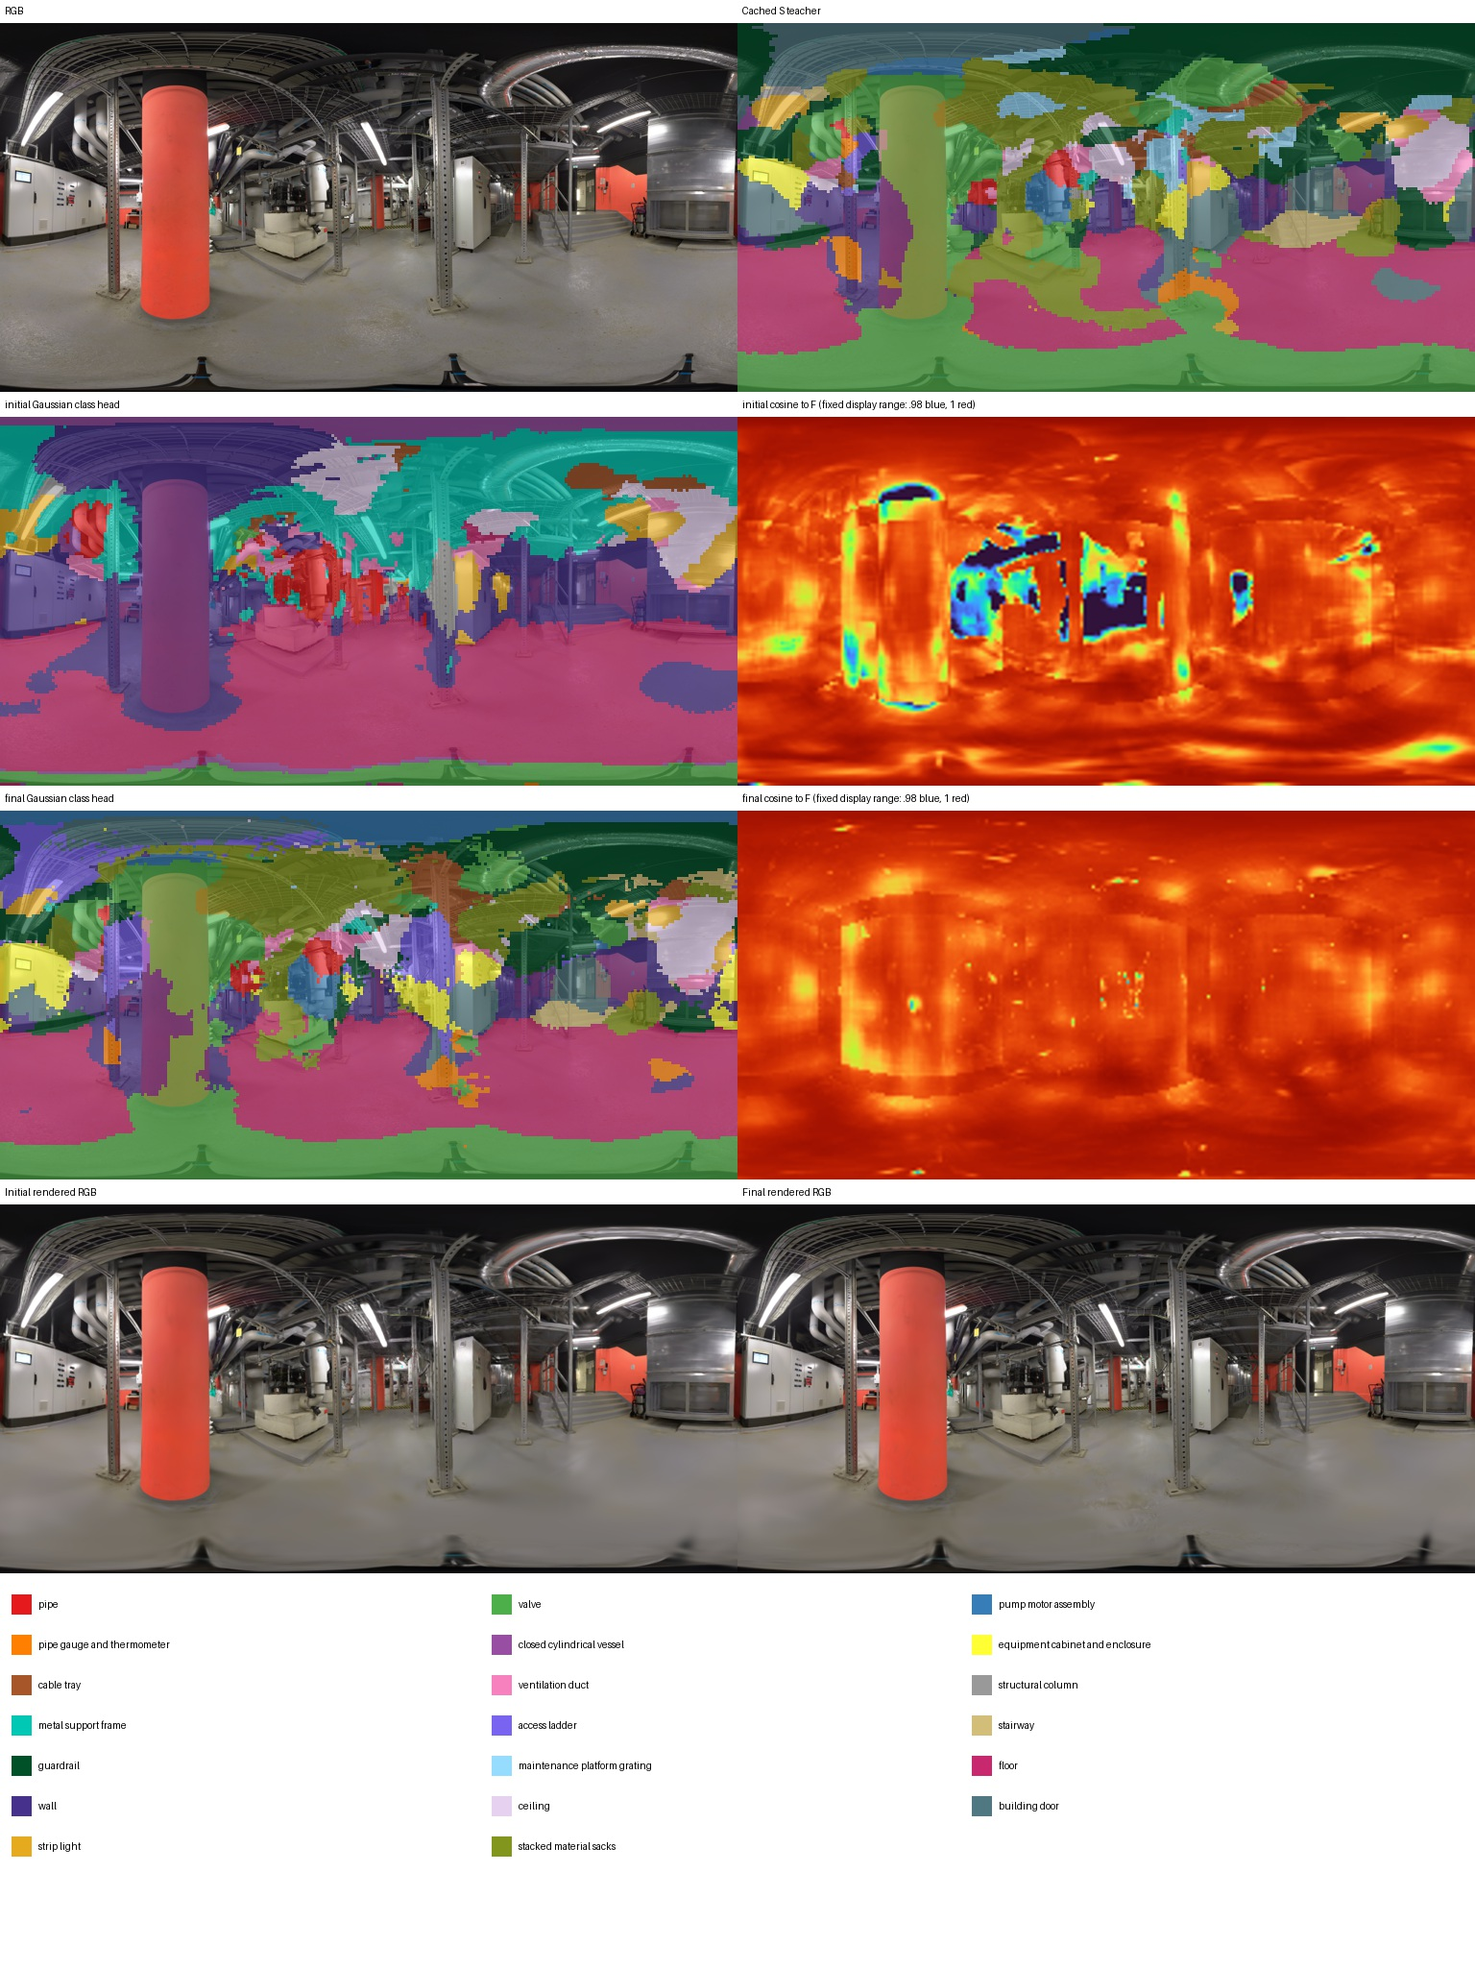
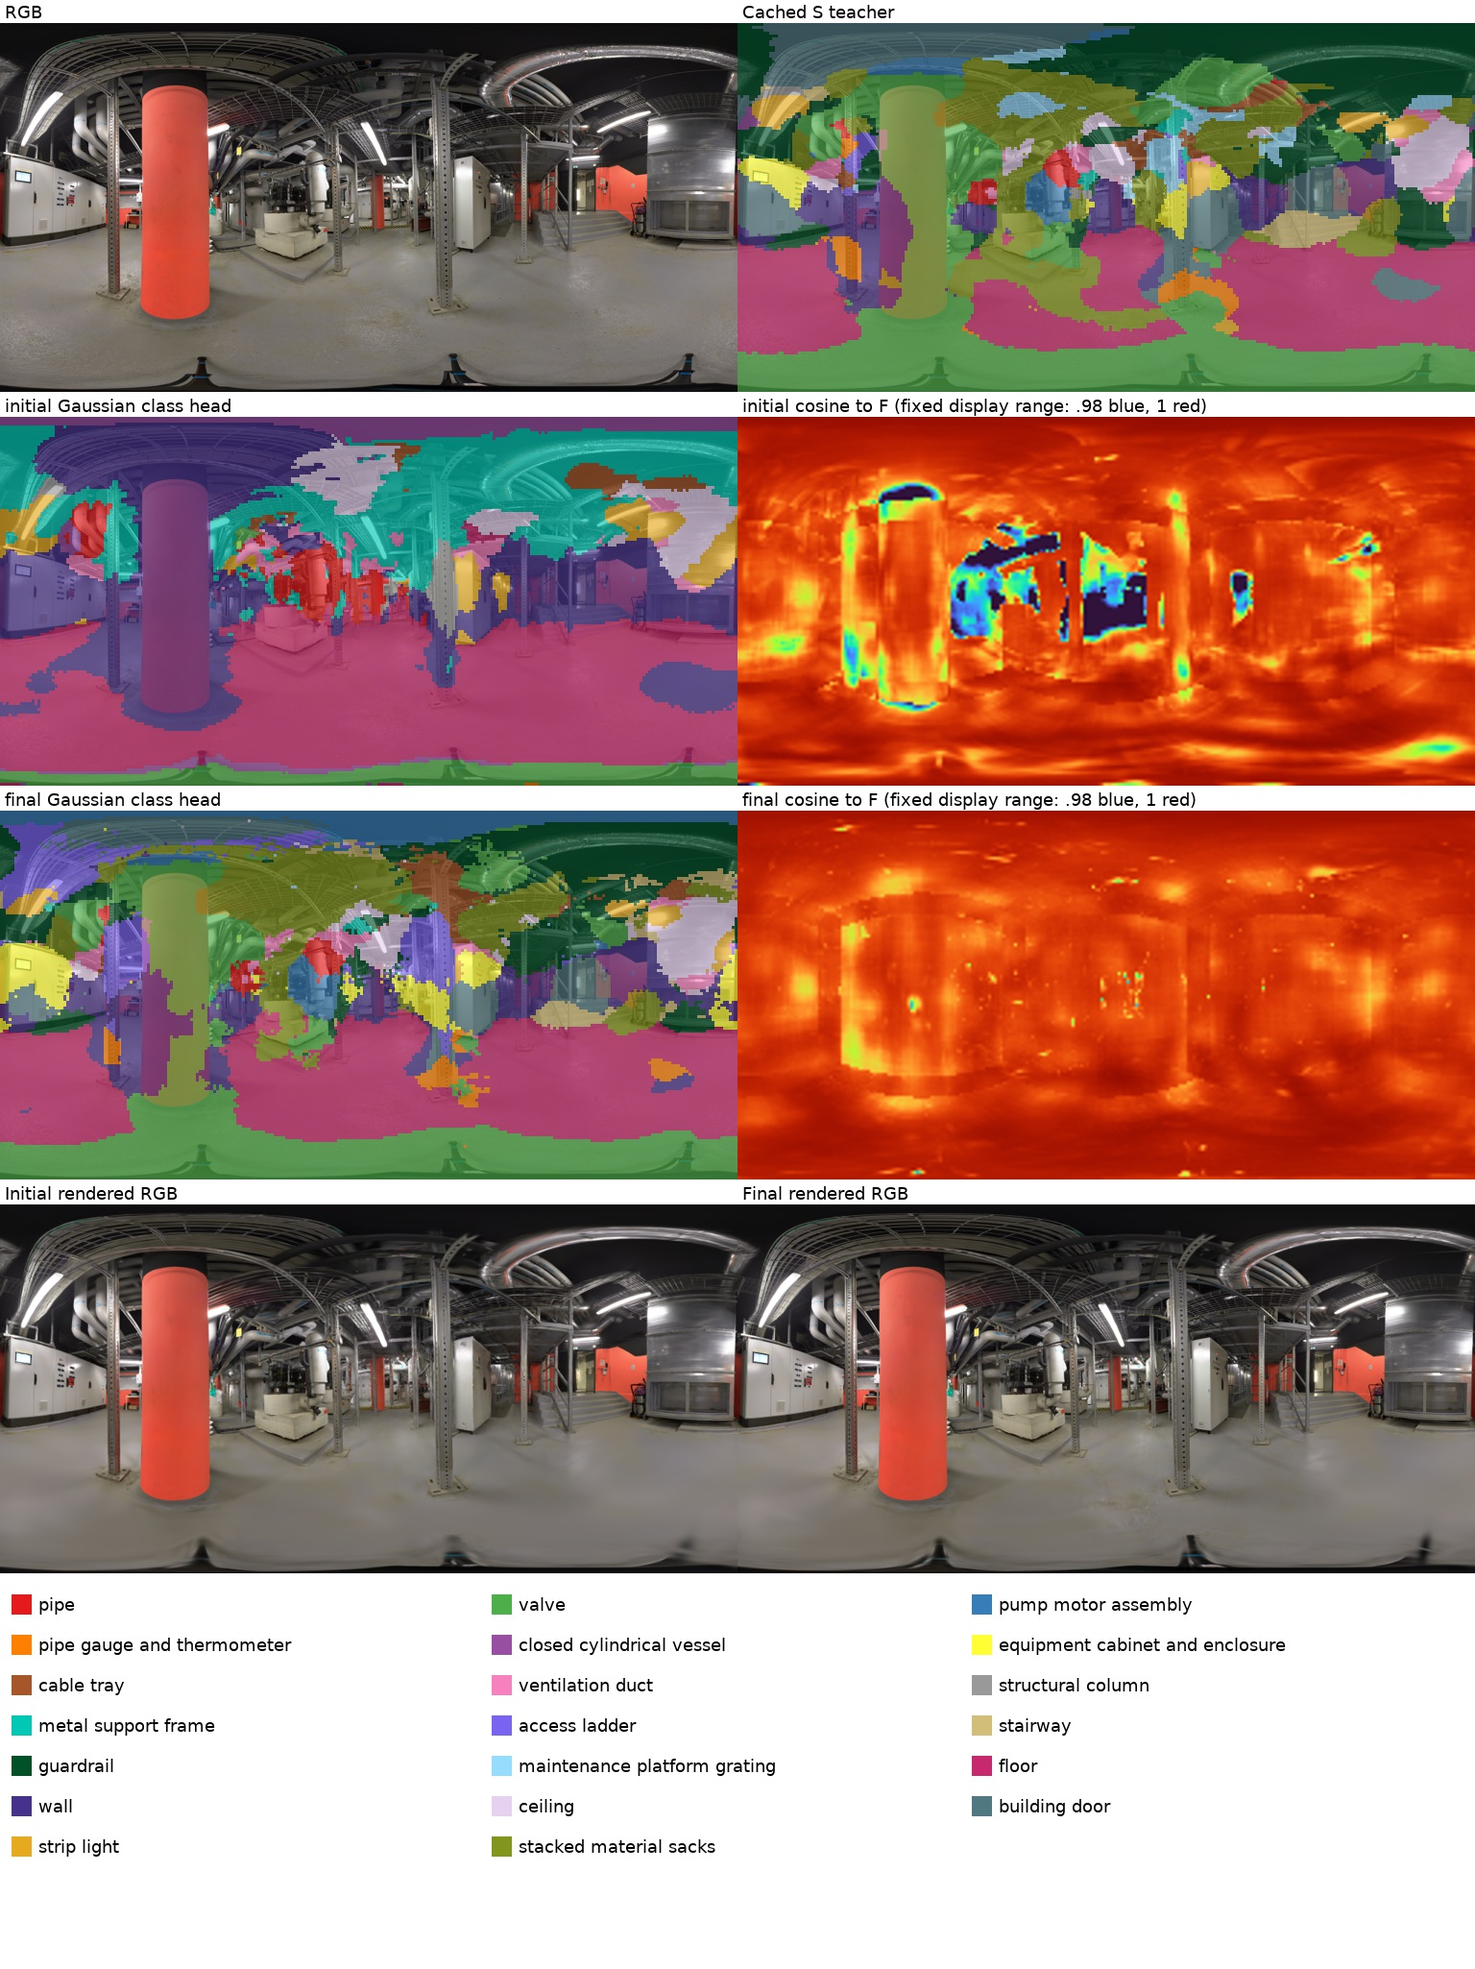
Record completed M2 SGI experiment and visual comparisons

diff --git a/tools/compare_m2_history.py b/tools/compare_m2_history.py
@@ -1,0 +1,86 @@
+"""Compare saved historical/current SGI renders with separate class legends.
+
+Training budgets and vocabularies differ. These figures are historical context,
+not a controlled estimate of the effect of changing M2.
+"""
+import argparse
+import sys
+from pathlib import Path
+
+sys.path.insert(0, str(Path(__file__).resolve().parents[1]))
+import numpy as np
+from PIL import Image, ImageDraw, ImageFont
+from spcgs.common import ROOT, read, ref, Stage
+from spcgs.visuals import PALETTE
+
+
+def compare(old_reference, new_stage, output):
+    old_reference, new_stage, output = map(Path, (old_reference, new_stage, output))
+    old = read(old_reference / 'render_job/request.json')
+    new = read(new_stage / 'validation/final_job/request.json')
+    old_cfg = read(old_reference / 'inputs.json')['source_config']
+    new_cfg = read(new_stage / 'config.json')
+    assert read(old_reference / 'outputs.json')['status'] == 'completed'
+    assert read(new_stage / 'outputs.json')['status'] == 'completed'
+    old_views = {v['name']: v for v in old['views']}
+    w, h = 768, 384
+    try:
+        font = ImageFont.truetype('/usr/share/fonts/truetype/dejavu/DejaVuSans.ttf', 18)
+    except OSError:
+        font = ImageFont.load_default()
+    note = 'Historical comparison: different training budgets and vocabularies; not an isolated M2 effect.'
+    with Stage(output, {'old_render_request': ref(old_reference / 'render_job/request.json'),
+                        'new_render_request': ref(new_stage / 'validation/final_job/request.json')},
+               {'old_training': old_cfg, 'new_training': new_cfg}) as stage:
+        figures = []
+        for view in new['views']:
+            name = view['name']
+            if name not in old_views:
+                continue
+            assert view['image'] == old_views[name]['image']
+            rgb = Image.open(view['image']).convert('RGB').resize((w, h))
+
+            def overlay(labels):
+                colors = Image.fromarray(PALETTE[labels]).resize((w, h), Image.Resampling.NEAREST)
+                return Image.blend(rgb, colors, .65)
+
+            def labels(request):
+                logits = np.fromfile(Path(request['output']) / (name + '_logits.f16'), dtype='f2')
+                return logits.reshape(len(request['classes']), request['semantic_height'], request['semantic_width']).argmax(0)
+
+            s = np.fromfile(view['relevancy'], dtype='f2').reshape(len(new['classes']), view['relevancy_height'], view['relevancy_width'])
+            panels = [('Real training RGB', rgb),
+                      (f"Old SGI RGB: {old_cfg['sgi_iterations']} steps, trained at {old_cfg['width']}x{old_cfg['height']}", Image.open(Path(old['output']) / (name + '_rgb.png')).resize((w, h))),
+                      (f"New SGI RGB: {new_cfg['sgi_iterations']} steps, trained at {new_cfg['width']}x{new_cfg['height']}", Image.open(Path(new['output']) / (name + '_rgb.png')).resize((w, h))),
+                      (f"New cached S teacher ({len(new['classes'])} classes)", overlay(s.argmax(0))),
+                      (f"Old Gaussian class head ({len(old['classes'])} classes)", overlay(labels(old))),
+                      (f"New Gaussian class head ({len(new['classes'])} classes)", overlay(labels(new)))]
+            canvas = Image.new('RGB', (3 * w, 1130), 'white')
+            draw = ImageDraw.Draw(canvas)
+            draw.text((10, 8), note, fill='black', font=font)
+            for i, (title, panel) in enumerate(panels):
+                x, y = (i % 3) * w, 40 + (i // 3) * (h + 30)
+                draw.text((x + 8, y + 4), title, fill='black', font=font)
+                canvas.paste(panel, (x, y + 28))
+            for classes, start_x, columns, column_w, title in [
+                (old['classes'], 10, 2, 370, 'OLD class legend'),
+                (new['classes'], w + 10, 3, 505, 'NEW / TEACHER class legend')]:
+                draw.text((start_x, 875), title, fill='black', font=font)
+                for i, category in enumerate(classes):
+                    x, y = start_x + (i % columns) * column_w, 905 + (i // columns) * 30
+                    draw.rectangle((x, y, x + 18, y + 18), fill=tuple(PALETTE[i]))
+                    draw.text((x + 26, y), category, fill='black', font=font)
+            path = output / (name + '_history.jpg')
+            canvas.save(path, quality=94)
+            figures.append(str(path))
+        assert figures, 'No common saved views'
+        stage.done({'figures': figures, 'note': note})
+
+
+if __name__ == '__main__':
+    parser = argparse.ArgumentParser()
+    parser.add_argument('old_reference')
+    parser.add_argument('new_stage')
+    parser.add_argument('output')
+    args = parser.parse_args()
+    compare(ROOT / args.old_reference, ROOT / args.new_stage, ROOT / args.output)

diff --git a/tools/compare_m2_student.py b/tools/compare_m2_student.py
@@ -3,7 +3,7 @@ import argparse,sys
 from pathlib import Path
 sys.path.insert(0,str(Path(__file__).resolve().parents[1]))
 import numpy as np
-from PIL import Image,ImageDraw
+from PIL import Image,ImageDraw,ImageFont
 from spcgs.common import ROOT,read,write,ref
 from spcgs.clip_dense import unit,save_responses,spatial_relevancy
 from spcgs.visuals import PALETTE
@@ -17,6 +17,8 @@ def compare(stage,cache,cfg,views):
     matplotlib.use('Agg')
     import matplotlib.pyplot as plt
     stage=Path(stage);out=stage/'validation';out.mkdir(exist_ok=True);h,w=cfg['semantic_height'],cfg['semantic_width'];k=len(cache['classes']);rows=[]
+    try:font=ImageFont.truetype('/usr/share/fonts/truetype/dejavu/DejaVuSans.ttf',18)
+    except OSError:font=ImageFont.load_default()
     for v in views:
         name=v['name'];fh,fw=v['feature_height'],v['feature_width']
         def resized(x):return np.stack([cv2.resize(z,(w,h),interpolation=cv2.INTER_LINEAR) for z in x])
@@ -43,9 +45,9 @@ def compare(stage,cache,cfg,views):
             save_responses(v['image'],spatial_relevancy(probs),[c+' (spatial minmax)' for c in cache['classes']],folder/(name+'_relative_responses.jpg'))
         panels.extend([('Initial rendered RGB',Image.open(out/'initial'/(name+'_rgb.png')).resize(rgb.size)),('Final rendered RGB',Image.open(out/'final'/(name+'_rgb.png')).resize(rgb.size))])
         for i,(title,im) in enumerate(panels):
-            x=i%2*768;y=i//2*410;draw.text((x+5,y+5),title,fill='black');canvas.paste(im,(x,y+24))
+            x=i%2*768;y=i//2*410;draw.text((x+5,y+2),title,fill='black',font=font);canvas.paste(im,(x,y+24))
         for i,c in enumerate(cache['classes']):
-            x=i%3*500+12;y=1660+i//3*42;draw.rectangle((x,y,x+20,y+20),fill=tuple(PALETTE[i]));draw.text((x+28,y+4),c,fill='black')
+            x=i%3*500+12;y=1660+i//3*42;draw.rectangle((x,y,x+20,y+20),fill=tuple(PALETTE[i]));draw.text((x+28,y),c,fill='black',font=font)
         canvas.save(out/(name+'_comparison.jpg'),quality=94);rows.append(row)
     losses=[__import__('json').loads(x) for x in (stage/'losses.jsonl').read_text().splitlines()]
     # Keep the original supervision panels and expose existing regularizers,

diff --git a/spcgs/pipeline.py b/spcgs/pipeline.py
@@ -42,7 +42,7 @@ def evaluate(folder,views,cfg,model=None):
       'test_psnr':float(np.mean([r['psnr'] for r in testing])) if testing else None,'test_ssim':float(np.mean([r['ssim'] for r in testing])) if testing else None,
       'train_psnr':float(np.mean([r['psnr'] for r in training])) if training else None,'aggregation':'Arithmetic mean over held-out test views only; train reference reported separately',
       'lpips':None,'lpips_reason':'Not computed by the lightweight evaluation entry; PSNR and SSIM use the saved float RGB.',
-      'miou':None,'macc':None,'semantic_gt_reason':'No independent industrial class ground truth supplied; CLIP pseudolabels are not ground truth.',
+      'miou':None,'macc':None,'semantic_gt_reason':'Independent semantic evaluation aligned to the current vocabulary is not configured; CLIP pseudolabels are not ground truth.',
       'resolution':[cfg['width'],cfg['height']],'model':model}
     write(folder/'metrics.json',metrics);return metrics
 

diff --git a/docs/M2_RESULTS.md b/docs/M2_RESULTS.md
@@ -1,6 +1,6 @@
 # M2 工业语义实验结果
 
-当前结论：新数据流能够提取密集 CLIP 特征并训练高斯，但**不能据此宣称工业语义整体改善**。教师的部分空间响应更细，地面区域有所改善；白色管道、灯具、容器和立柱等仍明显混淆。学生能够学习教师，也会继承错误。
+当前结论：M2 实现、完整监督缓存、短训和 10,000 步 SGI 已完成，但**尚未达到工业语义整体改善的目标**。教师的部分空间响应更细，地面区域有所改善；白色管道、灯具、容器和立柱等仍明显混淆。学生能够学习部分教师响应，也会继承错误；完整 SGI 对教师的拟合仍不充分。
 
 ## 已完成的内容
 
@@ -8,7 +8,7 @@
 - 得到 20 类、97 条英文描述，见 [类别报告](IRIS_CLASS_ANALYSIS.md) 和 [最终词表](../configs/industrial_classes.json)。不使用外部 VLM，不将官方 mask 用作监督。
 - 采用 3D-OVS 三尺度、重叠抖动矩形、原始 CLIP 向量空间累积/覆盖归一化，每张默认 16,812 个 patch；[实现依据及差异](M2_REFERENCE.md) 明确列出等权尺度融合和软目标 CE 的近似。
 - C++ 显式读取缓存 S；保留 32 维高斯、32→512 映射、原渲染/反传及文本查询。
-- 4 个真实训练视角的旧/新教师对比与 400 步高斯短训已完成并实际查看。56 张真实训练图和 M1 的 4 张注册生成图缓存均完成并通过完整性检查；10,000 步完整 SGI 已启动，此版报告不预填未完成的训练结果。
+- 4 个真实训练视角的旧/新教师对比、400 步高斯短训及 10,000 步完整 SGI 均已完成并实际查看。56 张真实训练图和 M1 的 4 张注册生成图缓存均通过完整性检查，56 张真实图的缓存来源与逐图视觉分析 RGB 哈希全部一致。
 
 ## 二维教师的实际观察
 
@@ -59,6 +59,48 @@ Run：`runs/industrial_semantics_20261023/02_gaussians/short_s0_400/03_semantic/
 
 同一视角的初始/最终渲染表明，学生已从 raw cosine 风格的初始分类向 S 目标移动；柱面袋垛、白管条灯等错误随之被学习，部分边界出现碎片。没有观察到整体渲染坐标错位。虽然语义 CE/余弦项下降，原有随机局部 3D 正则项从首步 0.00948 到末步 0.25461，导致总损失从 3.05032 升至 3.26836；本次未修改该既有正则，不能报告“所有损失下降”。
 
+## 10,000 步完整 SGI
+
+Run：`runs/industrial_semantics_20261023/02_gaussians/sgi_full_10000/02_sgi_gaussians`。
+
+使用全部 56 个真实训练视角，以及 M1 已注册的 forward、backward、left、right 四个生成视角。从 M1 的 4,267 个增强点初始化，RGB 为 2048×1024，语义为 256×128，沿用每步真实图和生成图语义损失、既有增密/裁剪及局部 3D 正则。正式 CLIP 配置仍为 100°、1024 像素透视面。没有重新生成视频或重新执行 M1。
+
+训练从头连续完成 10,000 步；逐步日志序号完整，所有记录中的数值有限。最终 **81,353 个高斯**。三次 OGR 在第 3,000/6,000/9,000 步分别删除 1,889/1,277/577 个点，共 3,743 个。第 3,000 和 6,000 步的透明度重置造成暂时损失上升，曲线保留这些过程。
+
+| 四个固定训练代表视角的均值 | 初始 | 10,000 步 |
+|---|---:|---:|
+| 与教师 F 的余弦 | 0.985272 | 0.991994 |
+| 与 S argmax 一致率 | 27.18% | 52.96% |
+| 软目标 CE | 2.997910 | 2.992511 |
+| 目标熵 | 2.990972 | 2.990972 |
+| KL(教师概率 ∥ 学生概率) | 0.006938 | 0.001539 |
+| 类概率 MAE | 0.004774 | 0.002114 |
+| 有效高斯贡献像素比例 | 100% | 100% |
+
+四视角最终教师一致率分别为 63.71%、44.87%、57.96%、45.32%。这些值衡量拟合 S，不是实际物体分类准确率。完整 SGI 的训练图数量、初始化、生成图监督和增密均与 400 步 S0 不同，不能将两者的 52.96% 与 72.62% 当成控制变量比较；但完整 SGI 尚未充分拟合教师这一限制需要保留。
+
+16 个测试视角在 2048×1024 下的 RGB 指标为 **PSNR 17.8160 dB、SSIM 0.647190**。单独的入口训练参考视角 PSNR 为 21.1725 dB，这不是 56 张训练图的均值。未计算 LPIPS。IRIS 有官方语义标注，但本次没有建立与新 20 类词表对齐的独立评价协议，因此未报告 mIoU/mAcc。
+
+![完整 SGI 入口教师学生对比](m2_figures/entrance_student_full.jpg)
+
+![完整 SGI 管线教师学生对比](m2_figures/pipes_student_full.jpg)
+
+实际查看全部四张最终对照图后，观察如下：入口地面响应较合理，红柱仍混为袋垛/容器；泵管区的顶部管线与容器/条灯混淆，黑泵及相邻管路边界不稳定；近景粗白管仍大面积变成条灯；柜式设备区的竖灯、地面较合理，但柜体仍混为墙/门等。RGB 已从稀疏初始点形成场景结构，但细管、设备细节和遮挡边界仍明显模糊。
+
+原生 S 置换检查、映射层梯度、原版 RGB 对照及投影测试确认了监督数据流可用；完整 SGI 的拟合差距没有因此消失。二维教师本身的错误已被直接观察到；多视角目标差异、当前重建表达能力及既有局部正则各自的影响尚未分离，不能将全部问题归因于词表，也不能用继续增加训练次数来代替诊断。
+
+![完整 SGI 损失与高斯数量](m2_figures/full_losses.png)
+
+末 100 步均值：RGB 0.105900、Lcos 0.009014、CE 2.993065、生成视角语义损失 2.994951、局部 3D 正则 0.129263、总损失 6.232193。局部正则与重置事件使曲线并非单调下降。
+
+## 与旧 SGI 的历史对照
+
+旧模型为 1,000 步、512×256、12 类；新模型为 10,000 步、2048×1024、20 类，初始化点云和其他训练设置也不同。两者在相同四个相机及相同显示分辨率重渲染，旧/新类别使用独立图例。该对照只提供历史参考，不能单独估计 M2 的收益。
+
+![历史管线对照](m2_figures/pipes_history.jpg)
+
+入口和近景管线对照中，新 RGB 结构比旧 1,000 步模型更清楚，但仍偏模糊。新语义的地面响应更合理；旧模型在横向粗管上有部分正确的 pipe 响应，新模型却将其变为 strip light。两个模型均有明显错误，结果不支持“新版语义全面更好”。四张历史对照及两个训练配置保存在 `02_gaussians/history_full_10000/`。
+
 ## 原生 S 接口与工程验证
 
 在 M1 的 4,267 个真实增强点上固定 F、T、相机、初始化和随机种子，仅反转 S 的类别行：CE 从 2.996892929 变为 2.998967409；Lcos 均为 0.010161907。独立按原生初始 logits 计算的 CE 为 2.996892452。语义参数与解码层梯度非零。旧 `local_crops` 显式 hard-target S 路径也通过同样检查。
@@ -68,3 +110,5 @@ Run：`runs/industrial_semantics_20261023/02_gaussians/short_s0_400/03_semantic/
 补充检查还确认原版 RGB 渲染的最大逐像素差为 **0**。但 `check_regression.py` 的严格断点恢复参数等价检查**未通过**：连续/恢复训练均到第 40 步，增密计数一致；7,029 个高斯中 2 行语义参数超出 0.0002 容差，最大差 0.0178565，其余参数最大差小于 0.0001。对应训练损失几乎一致。补查 3 个视角，float16 语义渲染特征平均绝对差为 1.28e-8～3.82e-8，logits 平均差为 2.93e-7～3.90e-7；存在半精度量化的单值差，不能把小平均误差等同于测试通过。近邻/深度排序及 GPU 数值非确定性可能有关，但原因未被完全定位。本次保留原渲染和优化器，没有放宽断言；完整 SGI 从头连续执行。失败模型、日志和补查结果保存在 `02_gaussians/regression_first/`。
 
 完整运行入口与产物协议见 [M2_RUNBOOK.md](M2_RUNBOOK.md)。服务器根目录为 `/mnt/sda/ubuntu/lkx/od/OmniGS_SPCGS_20261023/`，本次材料根目录为 `runs/industrial_semantics_20261023/`。完整数组、模型和日志在服务器保存；Git 保存代码、配置、参考快照、观察记录及少量代表图。
+
[1 lines of base64/hex data omitted]
